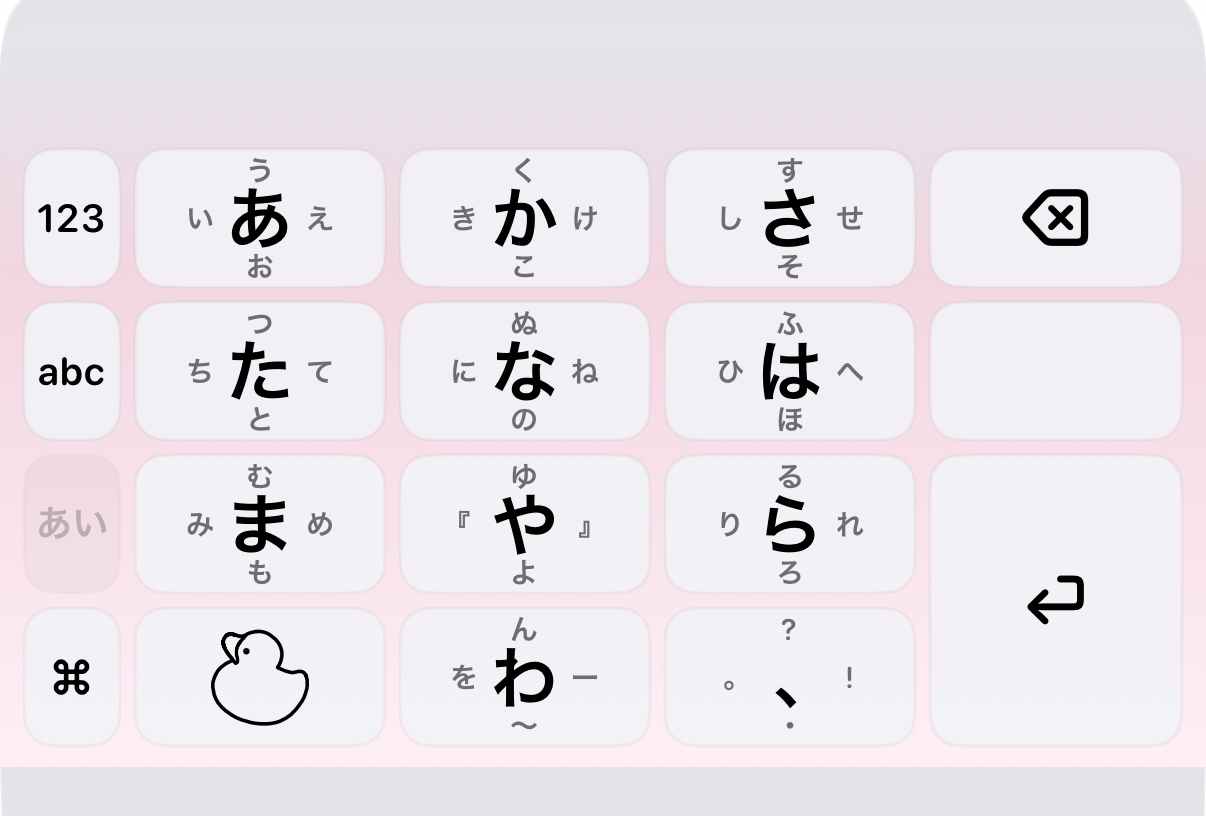
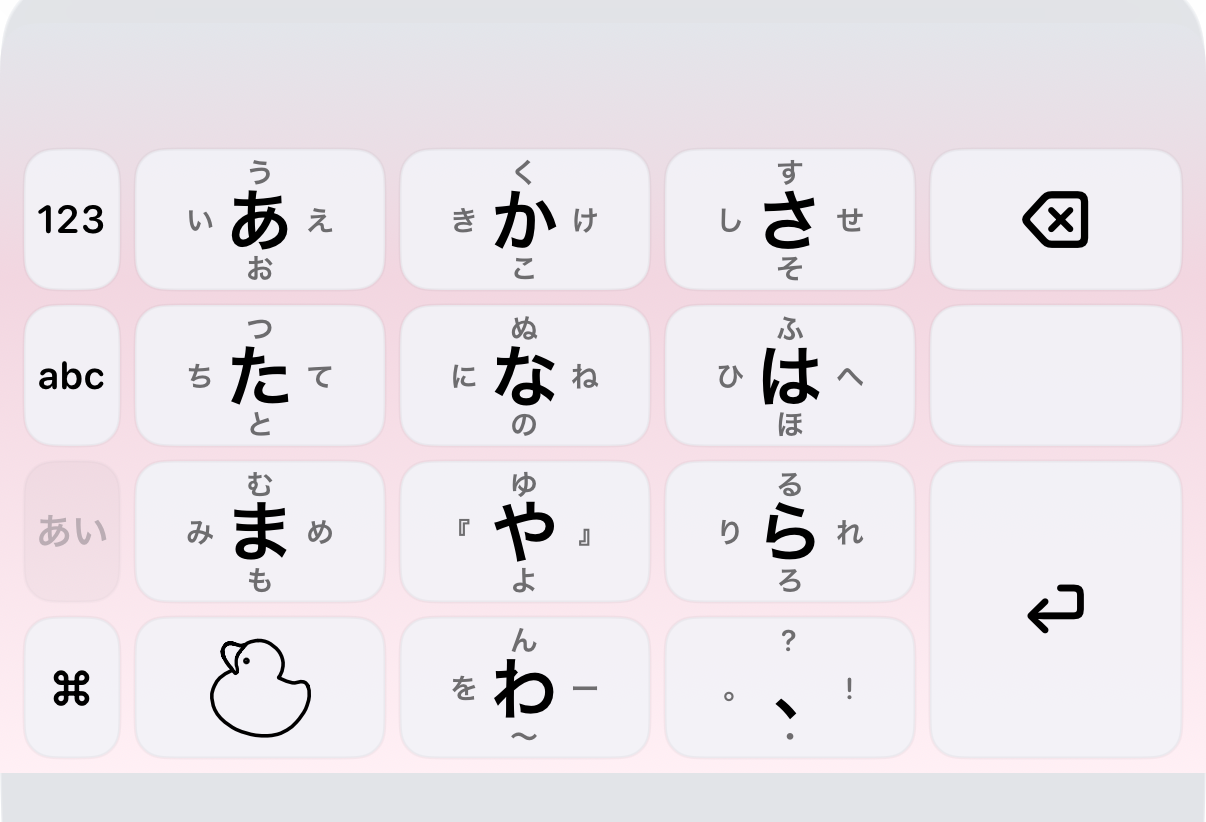
docs(manual): 冒頭のキーボードの図版(hero-kana)を今の高さで撮り直す
9/24 の図版は 3216 で縦の高さを純正に揃える前の画面だった。設定と構図は前回と同じで、上余白の補正
(17pt の透明な帯)を切って iPhone 17 Pro で撮り、同じ余白で切り抜いた(1206×822)。切り抜き位置と設定を
screenshots-plan.md に記録した。

diff --git a/docs/manual/index.html b/docs/manual/index.html
@@ -15,7 +15,7 @@
   <h1>écritu 操作マニュアル</h1>
   <p class="lede">écritu(エクリチュ)は、iPhone 用の日本語フリック入力キーボードです。このマニュアルは、iPhone は使っているけれど écritu は初めて、という方に向けて、導入から全機能・全設定までを説明します。</p>
   <figure class="hero-shot">
-    <img src="assets/hero-kana.png" alt="écritu のかな入力モード。3×3+わ配列、rose sakura poudré テーマ。あかさ/たなは/まやら の 3×3 とわキー、左下に ⌘ キー、後置修飾キーにはアヒルのアイコン" width="1206" height="816">
+    <img src="assets/hero-kana.png" alt="écritu のかな入力モード。3×3+わ配列、rose sakura poudré テーマ。あかさ/たなは/まやら の 3×3 とわキー、左下に ⌘ キー、後置修飾キーにはアヒルのアイコン" width="1206" height="822">
     <figcaption>かな入力モードの画面(かな配列: 3×3+わ、フリック方向: littlebear式、後置修飾、テーマ: rose sakura poudré、アクセント: émeraude、ガイド 4 方向)</figcaption>
   </figure>
   <div class="note"><b>まずはここから:</b>écritu の特徴を知りたい方は「1. écritu とは」、すぐ使い始めたい方は「2. 導入」へ。キーをどの方向にフリックすると何が入るかを一覧したいときは「8. 配列リファレンス」が便利です。</div>

diff --git a/appstore/screenshots-plan.md b/appstore/screenshots-plan.md
@@ -148,6 +148,11 @@ take 6 で使った種(iPhone 17 Pro Max、`B907C0B8-0540-436D-9D10-2E5747498716
 
 - 拡張の attach 失敗(`表示未到達`)が出ると純正キーボードが写る。web クリップを 2〜3 回起動し直せば通る
 - 撮影のたびに `xcrun simctl status_bar <UD> override --time 9:41 …` を打ち直す(再起動で消える)
-- マニュアルの hero-kana は **iPhone 17 Pro**(1206×2622)から撮って `(0,1630)-(1206,2446)` を切り抜く。
+- マニュアルの hero-kana は **iPhone 17 Pro**(1206×2622)から撮り、キーボードの上端の 17px 上から最下段のピンクが
+  終わる 49px 下までを切り抜く(take 7、2026-10-02: 上端 1641・ピンクの終わり 2397 → `(0,1624)-(1206,2446)`、高さ 822)。
+  撮影用の設定: `kanaLayoutMode=threeByThreePlusWa keyboardBackgroundTheme=sakura flickDirectionProfile=littlebear
+  kanaModifierPlacement=postfix accentPalette=emeraude flickGuideDisplayModeKana=fourDirections
+  flickGuideDisplayModeModifier=off kanaModeSwitcherTapAction=symbols`(本文は空。Safari で開いてよい=上は切り抜きで落ちる)。
+  旧記録(take 5): `(0,1630)-(1206,2446)` を切り抜いた。
   App Store の 6.9 インチは iPhone 17 Pro Max(1320×2868)なので別のシミュレーターで撮る
 
